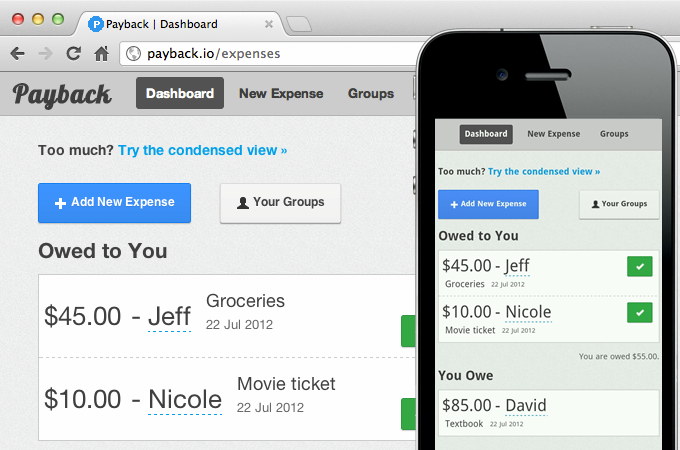
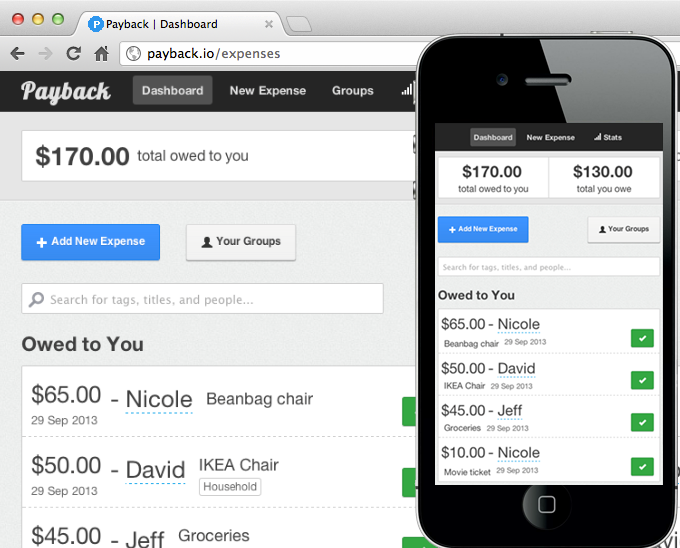
Update landing images

diff --git a/app/assets/stylesheets/pages/static/main.scss b/app/assets/stylesheets/pages/static/main.scss
@@ -65,8 +65,8 @@
   }
 
   .comparison-container {
-    background: url('/assets/comparison-2.png') no-repeat;
-    background-size: contain;
+    background: url('/assets/comparison.png') no-repeat;
+    background-size: cover;
     height: 450px;
 
     @media (min-width: 790px) and (max-width: 1100px) {
@@ -142,6 +142,7 @@
   }
 
   img {
+    @include border-radius;
     border: 1px solid $med-gray;
     max-width: 100%;
 
